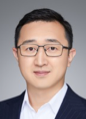
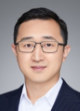
fix photos

diff --git a/People.md b/People.md
@@ -34,7 +34,7 @@ Prof. Guo is recruiting for Student/Visiting student now. If you are from remote
 | Shanxin Guo                                                                                       | Luyi Sun                                                                               | Longlong Zhao                                                                          | Xiaoli Li                                                                              | Hongmin Yao                                                                            |
 | --------------------------------------------------------------------------------------------------- | ---------------------------------------------------------------------------------------- | ---------------------------------------------------------------------------------------- | ---------------------------------------------------------------------------------------- | ---------------------------------------------------------------------------------------- |
 | Associate Professor                                                                               | Assistant Professor                                                                    | Associate Professor                                                                    | Assistant Professor                                                                    | Assistant Professor                                                                    |
-| ![image.png](/SIAT-GeoScience/assets/image-20220327202226-z7n4aae.png){:.rounded}            | ![image.png](/SIAT-GeoScience/assets/image-20220316215231-ij978hy.png){:.rounded} | ![image.png](/SIAT-GeoScience/assets/image-20220316215248-dhpq9vo.png){:.rounded} | ![image.png](/SIAT-GeoScience/assets/image-20220316215256-0g3u0r7.png){:.rounded} | ![image.png](/SIAT-GeoScience/assets/image-20220316215405-y8w5dfy.png){:.rounded} |
+| ![image.png](/SIAT-GeoScience/assets/image-20220327202226-z7n4aae.png){:.rounded}            | ![image.png](/SIAT-GeoScience/assets/image-20220316215231-ij978hy.png){:.rounded} | ![image.png](/SIAT-GeoScience/assets/Screenshot 2022-03-30 111249.png){:.rounded} | ![image.png](/SIAT-GeoScience/assets/image-20220316215256-0g3u0r7.png){:.rounded} | ![image.png](/SIAT-GeoScience/assets/image-20220316215405-y8w5dfy.png){:.rounded} |
 | Wuhan University<br />University of Wisconsin<br />-Madison<br />[Webpage](https://shawnmiloguo.github.io/)<br /> | University College London                                                              | University of Chinese <br />Academy of Sciences<br />                                          | Liaoning <br />Technical University<br />                                                      | Texas A&M University                                                                   |
 | **Jinchen Jiang**                                                                           | **Hongzhong Li**                                                                 | **Jing Wang**                                                                    | **Yelong Zhao**                                                                  | **Yu Han**                                                                       |
 | Associate Professor                                                                               | Associate Professor                                                                    | Assistant Professor                                                                    | Postdoc                                                                                | Engineer                                                                               |
